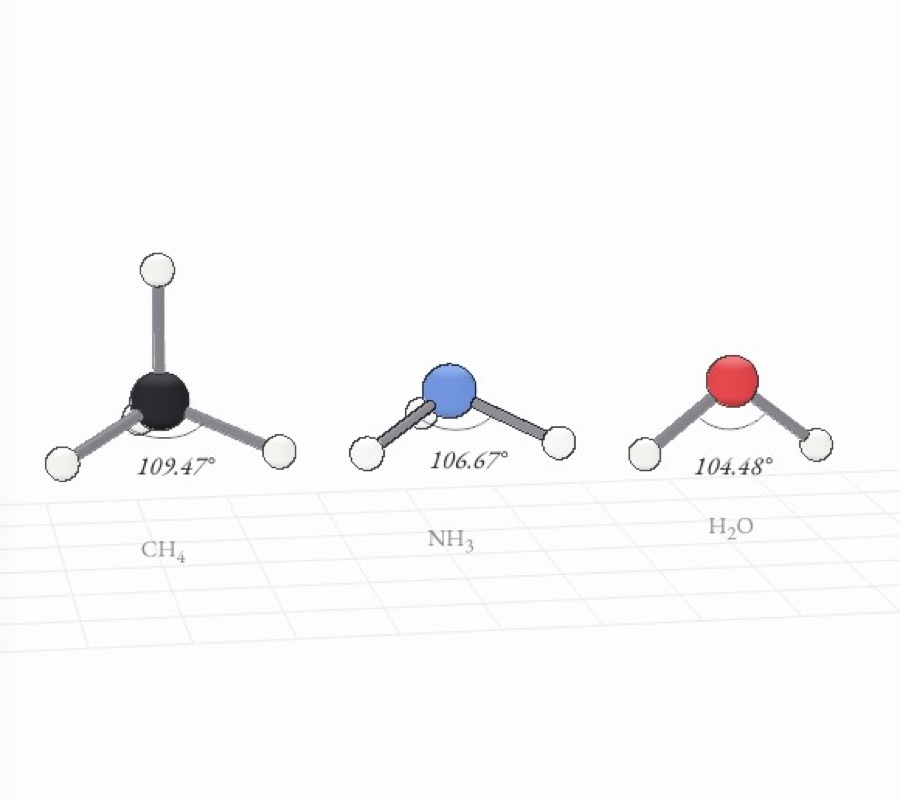
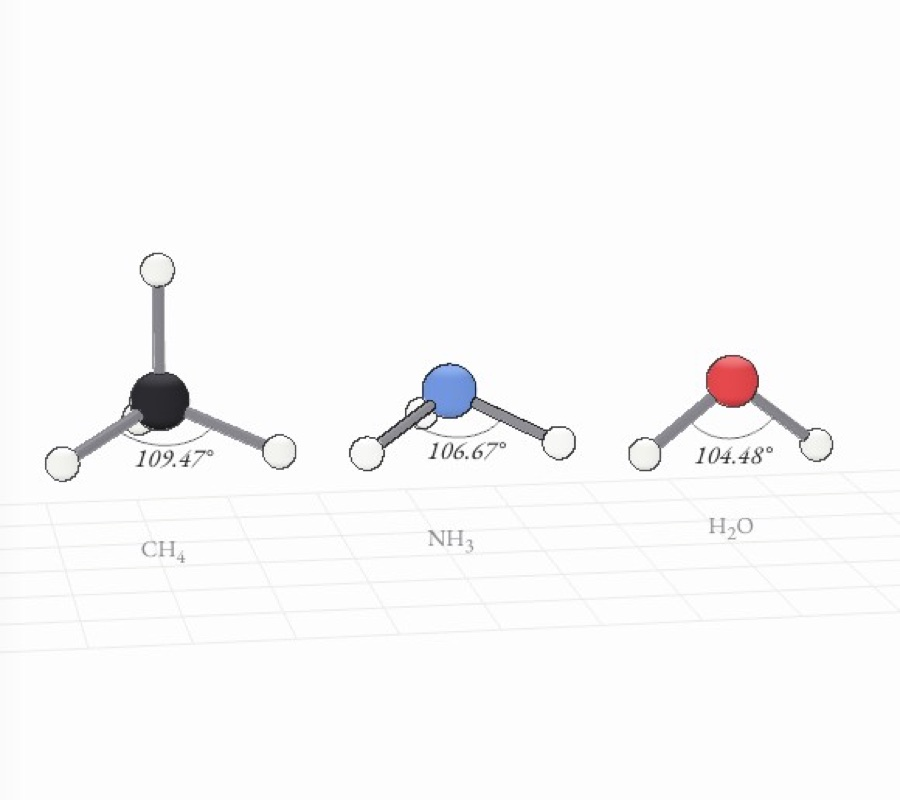
VSEPR: visible lone pairs, angle numbers on their arcs, full-size predicted hydrogens
Design-critique fixes by the chapter's builder: violet lone-pair lobes with ink edges, sage bond pairs, page 5's
lobe actually swells, angle labels at their arc midpoints, legible cube coordinates, phone captions clear of the
readout. 65 checks pass; labels clean at desk and phone.

Changed region(s): [[0.7778, 0.5312, 0.8711, 0.5938], [0.4667, 0.5312, 0.56, 0.5938], [0.1244, 0.5312, 0.2489, 0.5938]]

diff --git a/chemistry/vsepr/world.js b/chemistry/vsepr/world.js
@@ -6,9 +6,10 @@ import * as THREE from 'three';
 import { part, cyl, lines, shadeMat, PALETTE, V } from '../../engine/parts.js';
 import * as M from './model.js';
 
-// the chapter's own colours: sulfur's yellow, and a faint violet-grey for electron pairs
+// the chapter's own colours: sulfur's yellow; violet for a lone pair, sage green for a bond pair (an electron domain)
 PALETTE.sulfur = ['#f4e7a6', '#e3c75c', '#b99b36'];
-PALETTE.lobe = ['#f7f5fc', '#e8e4f3', '#cfc9e0'];
+PALETTE.lone = ['#8d6be0', '#6a45c8', '#4c2e99'];
+PALETTE.pair = ['#6fb488', '#4f9a6c', '#3a7a52'];
 
 export const S = 1.25;                     // world units per Å
 export const STATIONS = { domains: 0, tetra: 11, ch4: 21, nh3: 31, h2o: 41, swell: 51, real: 63, edge: 78 };
@@ -17,7 +18,7 @@ const RAD = { H: 0.17, C: 0.30, N: 0.28, O: 0.27, S: 0.36 };          // drawn r
 const PAL = { H: 'paper', C: 'ink', N: 'blue', O: 'red', S: 'sulfur' };
 const ELEMENT = { H: 'Hydrogen atoms', C: 'Carbon atom', N: 'Nitrogen atom', O: 'Oxygen atom', S: 'Sulfur atom' };
 const UP = V(0, 1, 0);
-const R_ARC = 0.52, R_LAB = 0.9;           // angle arcs, and where their numbers sit (world units from the centre)
+const R_ARC = 0.62, R_OUT = 0.17;          // angle arcs (world units from the centre), and how far past an arc's middle its number sits
 const EX = 0.5;                            // how far a breakdown pulls each pair out along its own direction
 const ARC = '#5a5a60', FAINT = '#b9b9be';
 const v3 = a => V(a[0], a[1], a[2]);
@@ -34,6 +35,10 @@ function lobeGeo(L, W, k, y0 = 0) {
 const SUBS = '₀₁₂₃₄₅₆₇₈₉';
 // arc numbers: the centred 'mark' label, set in the board labels' italic ink (the board class hangs text right of its anchor)
 const ctr = html => `<span style="font:italic 17px/1 var(--serif);color:var(--hi)">${html}</span>`;
+// coordinates on the cube: tick labels, in ink and large enough to read
+const coord = html => `<span style="font:13px/1 var(--mono);color:var(--hi)">${html}</span>`;
+// phones: the readout fills the figure's bottom-right corner, so captions under a lone molecule move to its left
+const narrow = () => typeof matchMedia !== 'undefined' && matchMedia('(max-width: 900px), (max-height: 520px)').matches;
 export const chem = s => s.replace(/[₀-₉]+/g, m => `<sub>${[...m].map(c => SUBS.indexOf(c)).join('')}</sub>`);
 
 export function buildWorld(E) {
@@ -61,15 +66,18 @@ export function buildWorld(E) {
     const m = part(parent, STICK, { pal, tone: 'mid', name, pos: M.scale(u, l / 2), ex: e });
     m.scale.set(r, l, r); m.quaternion.setFromUnitVectors(UP, v3(u)); return m;
   };
-  const lobeMat = op => shadeMat('lobe', { opacity: op });
-  const lobe = (parent, geo, u, { name = 'Lone pairs', op = 0.45, ex: e = [0, 0, 0] } = {}) => {
-    const m = part(parent, geo, { tone: 'lo', name, ex: e, mat: lobeMat(op) });
+  // an electron pair: a tinted, translucent lobe with an ink outline. The blend happens in linear light, so an
+  // opacity of 0.5 reads on paper as roughly a 30 % tint. edge: false for a lobe that wraps its bond and
+  // H atom (page 1.5's bond pairs), whose outline would hide theirs in the edge pass.
+  const lobe = (parent, geo, u, { name = 'Lone pairs', pal = 'lone', op = 0.5, edge = true, ex: e = [0, 0, 0] } = {}) => {
+    const m = part(parent, geo, { tone: 'mid', name, ex: e, mat: shadeMat(pal, { opacity: op }) });
     m.quaternion.setFromUnitVectors(UP, v3(u));
-    m.userData.noEdge = true;                       // soft: no ink outline, so the atoms inside stay drawn
+    if (!edge) m.userData.noEdge = true;
     m.renderOrder = 2;
     return m;
   };
-  const LONE = lobeGeo(0.95, 0.40, 0.8, 0.16), PAIR = lobeGeo(1.05, 0.30, 1.25, 0.08);
+  // lobes start at the atom's surface, so the atom keeps its own outline
+  const LONE = lobeGeo(0.9, 0.42, 0.8, 0.24), PAIR = lobeGeo(1.0, 0.30, 1.25, 0.12);
   // an angle arc between directions a and b, radius R_ARC, in parent's frame; returns its midpoint direction
   const arcPts = (a, b, R = R_ARC, n = 24) => {
     const A = v3(a).normalize(), B = v3(b).normalize(), w = A.angleTo(B), c = [];
@@ -79,6 +87,8 @@ export function buildWorld(E) {
   };
   const arc = (parent, a, b, color = ARC) => lines(parent, arcPts(a, b), color);
   const mid = (a, b) => v3(a).normalize().add(v3(b).normalize()).normalize();
+  // an angle's number: at its arc's middle, a little further out, brought toward the camera so nothing hides it
+  const arcAt = (obj, m, R = R_ARC) => () => toCam(obj.localToWorld(m.clone().multiplyScalar(R + R_OUT)), 0.45);
   // a molecule: centre atom, bonds and H atoms along d.bonds, lone-pair lobes along d.lone; all inside a group that rocks
   function molecule(g, x, el, rA, d, { lone = true, y = 0 } = {}) {
     const spin = new THREE.Group(); spin.position.set(x, y, 0); g.add(spin);
@@ -100,9 +110,9 @@ export function buildWorld(E) {
     const g = asm(`domains${n}`, root, { title: `${n} electron pairs`, sub: `${M.SPREAD_NAME[n]}: ${M.SPREAD[n].toFixed(n === 4 ? 1 : 0)}° apart` });
     const x = X0 + (n - 3) * SPACING.domains, spin = new THREE.Group(); spin.position.set(x, 0, 0); g.add(spin); spins.push(spin);
     ball(spin, 'C', [0, 0, 0], { r: 0.17, pal: 'dark', name: 'Central atom' });
-    for (const u of sets[n]) lobe(spin, PAIR, u, { name: 'Electron pairs', op: 0.7, ex: M.scale(u, EX) });
+    for (const u of sets[n]) lobe(spin, PAIR, u, { name: 'Electron pairs', pal: 'pair', op: 0.5, ex: M.scale(u, EX) });
     if (n > 2) { const [a, b] = n === 4 ? [sets[4][1], sets[4][2]] : [sets[3][1], sets[3][2]]; arc(spin, a, b);
-      const m = mid(a, b); label('mark', ctr(`${M.SPREAD[n].toFixed(n === 4 ? 1 : 0)}°`), () => toCam(spin.localToWorld(m.clone().multiplyScalar(R_LAB)), 0.4)); }
+      const m = mid(a, b); label('mark', ctr(`${M.SPREAD[n].toFixed(n === 4 ? 1 : 0)}°`), arcAt(spin, m)); }
     caption(`${n} pairs`, () => V(x, -1.3, 0));
     DOM[n] = { g, spin };
   }
@@ -124,9 +134,11 @@ export function buildWorld(E) {
   }
   arc(tSpin, CORNERS[0], CORNERS[3]);
   { const m = mid(CORNERS[0], CORNERS[3]);
-    label('mark', ctr(`${M.TET_DEG.toFixed(2)}°`), () => toCam(tSpin.localToWorld(m.clone().multiplyScalar(R_LAB)), 0.3)); }
-  label('tick', '(1, 1, 1)', () => toCam(tSpin.localToWorld(v3(M.scale(CORNERS[0], CUBE * 1.12))), 0.3).add(V(0.15, 0.1, 0)));
-  label('tick', '(−1, 1, −1)', () => toCam(tSpin.localToWorld(v3(M.scale(CORNERS[3], CUBE * 1.12))), 0.3));
+    label('mark', ctr(`${M.TET_DEG.toFixed(2)}°`), arcAt(tSpin, m)); }
+  label('tick', coord('(1, 1, 1)'), () => toCam(tSpin.localToWorld(v3(M.scale(CORNERS[0], CUBE * 1.12))), 0.3).add(V(0.15, 0.1, 0)));
+  // on phones the corner hint runs along the figure's top edge, so this one sits below its corner instead of above
+  label('tick', coord('(−1, 1, −1)'), () => narrow() ? toCam(tSpin.localToWorld(v3(M.scale(CORNERS[3], CUBE))), 0.3).add(V(0.1, -0.34, 0))
+    : toCam(tSpin.localToWorld(v3(M.scale(CORNERS[3], CUBE * 1.12))), 0.3));
 
   // ---------- 2–4 · methane, ammonia, water at their measured geometry ----------
   const one = (key, k, title, sub) => {
@@ -136,8 +148,8 @@ export function buildWorld(E) {
     const [a, b] = front(k, d);
     arc(mol.spin, a, b);
     const mm = mid(a, b);
-    label('mark', ctr(`${m.angle.toFixed(1)}°`), () => toCam(mol.at(mm.clone().multiplyScalar(R_LAB)), 0.45));
-    caption(chem(m.formula), () => V(STATIONS[key], -1.3, 0));          // the shape's name is in the figure's title
+    label('mark', ctr(`${m.angle.toFixed(1)}°`), arcAt(mol.spin, mm));
+    caption(chem(m.formula), () => narrow() ? V(STATIONS[key] - 1.6, -1.05, 0) : V(STATIONS[key], -1.3, 0));   // the shape's name is in the figure's title
     if (d.lone.length) label('mark', d.lone.length > 1 ? 'lone pairs' : 'lone pair', () => toCam(mol.at(v3(d.lone[0]).multiplyScalar(0.8).add(V(0.85, 0.1, 0))), 0.2));
     return { g, mol, d };
   };
@@ -151,14 +163,15 @@ export function buildWorld(E) {
   const s5 = new THREE.Group(); s5.position.set(X5, 0, 0); g5.add(s5); spins.push(s5);
   ball(s5, 'N', [0, 0, 0]);
   const PAIR5 = lobeGeo(m5.r * S, 0.24, 1.0);                       // a bond pair: shared, stretched between N and H
+  const LONE5 = lobeGeo(1, 1, 0.85, 0.2);                            // the lone pair, unit size: scaled each frame by its strength
   const sw = { H: [], B: [], P: [] };
-  for (let i = 0; i < 3; i++) { sw.H.push(ball(s5, 'H', [0, 0, 0])); sw.B.push(stick(s5, [0, 1, 0], m5.r * S)); sw.P.push(lobe(s5, PAIR5, [0, 1, 0], { name: 'Bond pairs', op: 0.45 })); }
-  const lone5 = lobe(s5, PAIR5, [0, 1, 0], { name: 'Lone pair', op: 0.55 });
+  for (let i = 0; i < 3; i++) { sw.H.push(ball(s5, 'H', [0, 0, 0])); sw.B.push(stick(s5, [0, 1, 0], m5.r * S)); sw.P.push(lobe(s5, PAIR5, [0, 1, 0], { name: 'Bond pairs', pal: 'pair', op: 0.36, edge: false })); }
+  const lone5 = lobe(s5, LONE5, [0, 1, 0], { name: 'Lone pair', op: 0.5 });
   const arc5 = lines(s5, new Array(24 * 6).fill(0), ARC); arc5.geometry.attributes.position.setUsage(THREE.DynamicDrawUsage);
   let ang5 = M.TET_DEG, mid5 = V(0, -1, 0);
-  label('mark', '', () => toCam(s5.localToWorld(mid5.clone().multiplyScalar(R_LAB)), 0.45), () => ctr(`${ang5.toFixed(1)}°`));
+  label('mark', '', () => toCam(s5.localToWorld(mid5.clone().multiplyScalar(R_ARC + R_OUT)), 0.45), () => ctr(`${ang5.toFixed(1)}°`));
   label('mark', 'lone pair', () => toCam(s5.localToWorld(V(0.85, 0.85, 0)), 0.2));
-  caption(chem('NH₃'), () => V(X5, -1.3, 0));
+  caption(chem('NH₃'), () => narrow() ? V(X5 - 1.6, -1.05, 0) : V(X5, -1.3, 0));
   function setSwell(q) {
     const u = (q - 1) / (M.Q_LONE - 1), sq = M.squeeze('AX3E', q), d = M.domains('AX3E', sq.bond);
     ang5 = sq.bond;
@@ -169,7 +182,9 @@ export function buildWorld(E) {
       sw.P[i].quaternion.setFromUnitVectors(UP, v3(b)); sw.P[i].userData.ex.set(...e);
     });
     // q = 1: the lone pair is the size of a bond pair; q = Q_LONE: shorter, and much wider near the nucleus
-    lone5.scale.set(1 + 0.75 * u, 1 - 0.3 * u, 1 + 0.75 * u);
+    // q = 1: exactly a bond pair's domain (0.24 wide, as long as the bond); at full strength more than twice as wide
+    const W = 0.24 + (0.56 - 0.24) * u, L = m5.r * S + (1.0 - m5.r * S) * u;
+    lone5.scale.set(W, L, W);
     lone5.userData.ex.set(0, EX, 0);
     const a = arc5.geometry.attributes.position; arcPts(d.bonds[0], d.bonds[1]).forEach((v, i) => { a.array[i] = v; });
     a.needsUpdate = true; arc5.geometry.computeBoundingSphere();
@@ -186,7 +201,7 @@ export function buildWorld(E) {
     const [a, b] = front(k, d);
     arc(mol.spin, a, b);
     const mm = mid(a, b);
-    label('mark', ctr(`${m.angle.toFixed(2)}°`), () => toCam(mol.at(mm.clone().multiplyScalar(R_LAB)), 0.45));
+    label('mark', ctr(`${m.angle.toFixed(2)}°`), arcAt(mol.spin, mm));
     caption(chem(m.formula), () => V(x, -1.6, 0));                    // below water's angle, which hangs lowest
     return { g, mol };
   });
@@ -200,22 +215,21 @@ export function buildWorld(E) {
     const mol = molecule(g, x, m.centre, m.r, d); spins.push(mol.spin);
     arc(mol.spin, d.bonds[0], d.bonds[1]);
     const mm = mid(d.bonds[0], d.bonds[1]);
-    label('mark', ctr(`${m.angle.toFixed(1)}°`), () => toCam(mol.at(mm.clone().multiplyScalar(R_LAB + 0.12)), 0.45));
+    label('mark', ctr(`${m.angle.toFixed(1)}°`), arcAt(mol.spin, mm));
     caption(chem(m.formula), () => V(x, -1.9, 0));
     edge[k] = { g, mol, d };
   }
-  // where the rule of thumb would put sulfur's hydrogens: ghost outlines at the model's angle
+  // where the rule of thumb would put sulfur's hydrogens: full-size translucent grey atoms on dashed bonds, at the model's angle
   const ghost = new THREE.Group(); edge.H2S.mol.spin.add(ghost);
-  { const gd = M.domains('AX2E2', M.PREDICT.H2S.bond), rr = M.MOL.H2S.r * S, c = [], ghostMat = new THREE.LineBasicMaterial({ color: '#a8a8ae' });
+  { const gd = M.domains('AX2E2', M.PREDICT.H2S.bond), rr = M.MOL.H2S.r * S, c = [], gm = shadeMat('dark', { opacity: 0.3 });
     for (const u of gd.bonds) {
-      const l = new THREE.LineSegments(new THREE.EdgesGeometry(new THREE.IcosahedronGeometry(RAD.H, 1)), ghostMat); l.userData = { noEdge: true };
-      l.position.set(...M.scale(u, rr)); ghost.add(l);
-      for (let s = 0.22; s < 0.92; s += 0.1) c.push(...M.scale(u, rr * s), ...M.scale(u, rr * (s + 0.05)));
+      const m = part(ghost, SPH, { tone: 'mid', name: 'VSEPR’s prediction', pos: M.scale(u, rr), mat: gm }); m.scale.setScalar(RAD.H); m.renderOrder = 2;
+      for (let s = 0.22; s < 0.9; s += 0.09) c.push(...M.scale(u, rr * s), ...M.scale(u, rr * (s + 0.05)));
     }
-    lines(ghost, c, '#a8a8ae');
+    lines(ghost, c, '#7a7a80');
     // named under the left-hand ghost, in the open space between the two molecules
     const lm = v3(gd.bonds[0]);
-    label('mark', `VSEPR ≈ ${M.PREDICT.H2S.bond.toFixed(0)}°`, () => toCam(edge.H2S.mol.at(lm.clone().multiplyScalar(rr).add(V(-0.05, -0.42, 0))), 0.3)); }
+    label('mark', `<span style="color:var(--hi)">VSEPR ≈ ${M.PREDICT.H2S.bond.toFixed(0)}°</span>`, () => toCam(edge.H2S.mol.at(lm.clone().multiplyScalar(rr).add(V(-0.05, -0.45, 0))), 0.3)); }
 
   // ---------- per frame ----------
   function update({ t, q }) {

diff --git a/chemistry/vsepr/model.js b/chemistry/vsepr/model.js
@@ -109,6 +109,7 @@ export const PREDICT = Object.fromEntries(Object.keys(MOL).map(k => { const s = 
 // ---------- the figure's clock ----------
 export const ROCK = { amp: 18, period: 14 };          // each molecule rocks ±18° about its axis, every 14 s, so it reads as 3D
 export const rock = t => ROCK.amp * Math.sin(2 * Math.PI * t / ROCK.period);
-// page 5: the lone pair swells from a bond pair's strength (q = 1) to its fitted strength and back, every SWELL s
-export const SWELL = 9;
+// page 5: the lone pair swells from a bond pair's strength (q = 1) to its fitted strength and back, every SWELL s.
+// 8.3 s puts its fullest at the middle of page 1.5's dwell in the ?render tour (t = 29 s), so stills and cards show it.
+export const SWELL = 8.3;
 export const swellQ = t => 1 + (Q_LONE - 1) * (1 - Math.cos(2 * Math.PI * t / SWELL)) / 2;

diff --git a/chemistry/vsepr/pages.js b/chemistry/vsepr/pages.js
@@ -127,7 +127,7 @@ export const PAGES = [
       <p>One fitted number gets water within ${f(Math.abs(M.PREDICT.H2O.off), 2)}°. That supports the picture; it does not prove it. The real reason lies in quantum mechanics, and page 1.7 shows a case the toy gets badly wrong.</p>
       <p class="hintline">The lone pair grows from a bond pair's strength to ${f(M.Q_LONE, 2)} and back. Click it.</p>`,
     cam: cam('swell', -14, 16, 9.4, 0, 0.05), lit: 'swell', scene: 'swell', look: {},
-    fig: 'A lone pair swells and the bonds close',
+    fig: 'A lone pair swells',
     alt: 'Ammonia with faint bond-pair lobes along its bonds; the lone-pair lobe widens and the H–N–H angle closes from 109.5 to 106.7 degrees.',
   },
   {
